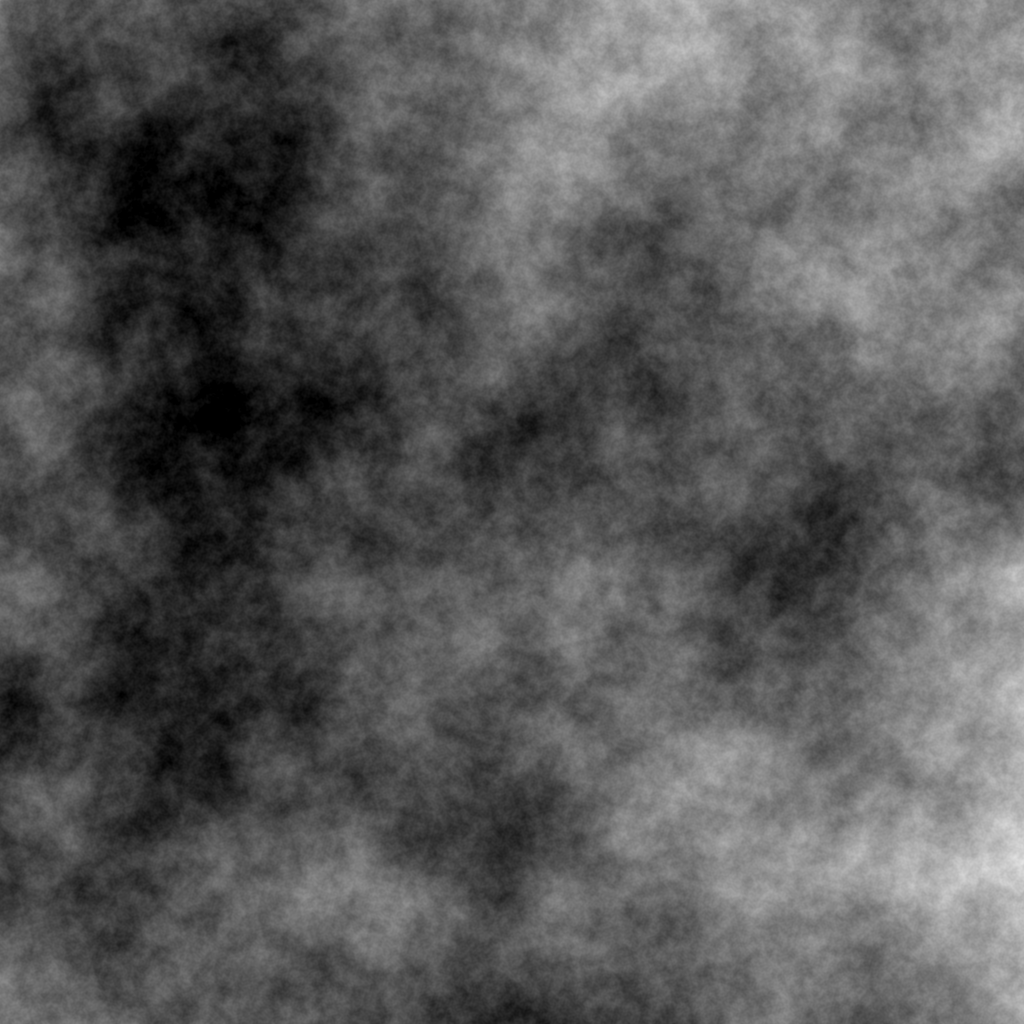
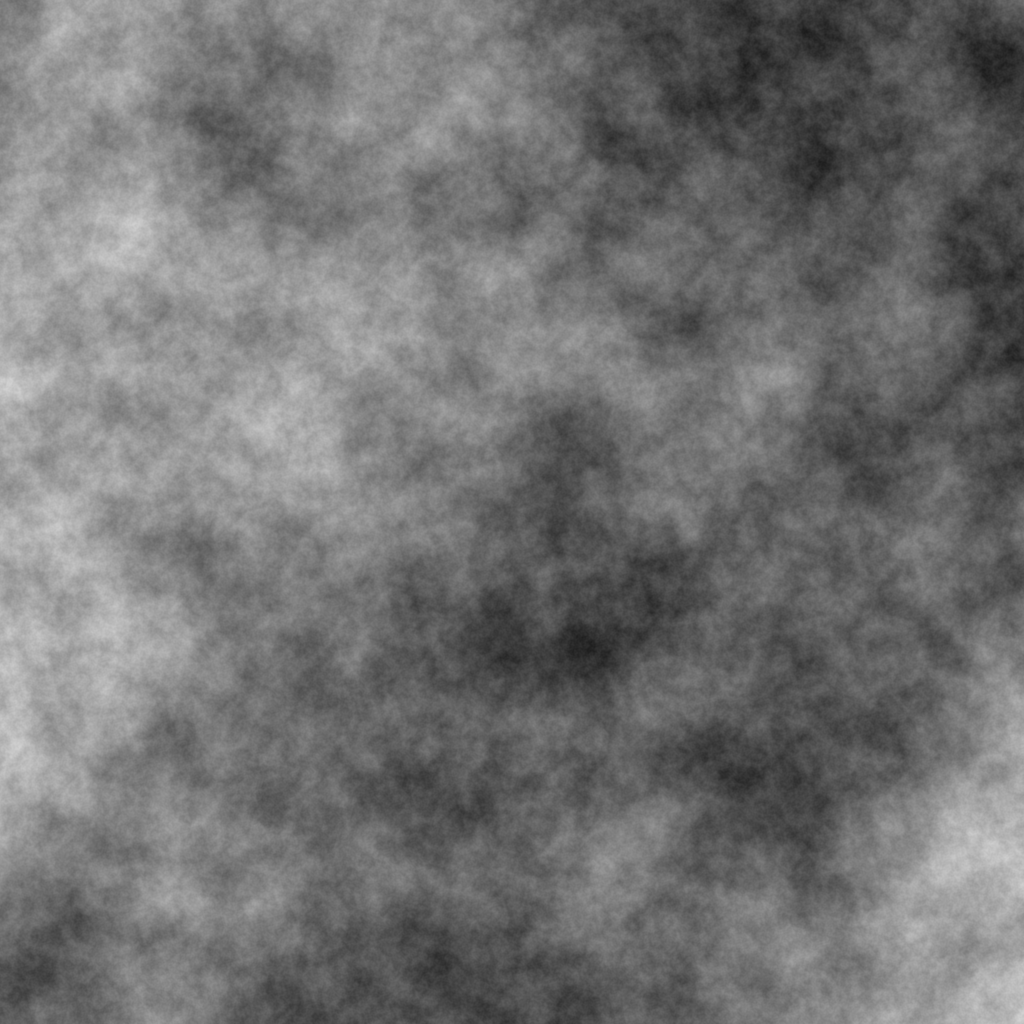
switch permutation generator to XORSHIFT

diff --git a/tests/LinuxMain.swift b/tests/LinuxMain.swift
@@ -37,20 +37,20 @@ for point:PoissonSampler.Point in poisson.generate(radius: 10, width: viewer_siz
 print(clock() - t0)
 try png_encode(path: "poisson.png", raw_data: pixbuf, properties: png_properties)
 
-let S:fBm<Simplex2D> = fBm<Simplex2D>(amplitude: 1, frequency: 0.00083429273, octaves: 10)
+let S:fBm<Simplex2D> = fBm<Simplex2D>(amplitude: 0.5*127.5, frequency: 0.001, octaves: 10)
 t0 = clock()
 pixbuf = S.sample_area_saturated_to_u8(width: viewer_size, height: viewer_size, offset: 127.5)
 print(clock() - t0)
 try png_encode(path: "simplex.png", raw_data: pixbuf, properties: png_properties)
 
 
-let SS:fBm<SuperSimplex2D> = fBm<SuperSimplex2D>(amplitude: 1, frequency: 0.00083429273, octaves: 10)
+let SS:fBm<SuperSimplex2D> = fBm<SuperSimplex2D>(amplitude: 0.5*127.5, frequency: 0.001, octaves: 10)
 t0 = clock()
 pixbuf = SS.sample_area_saturated_to_u8(width: viewer_size, height: viewer_size, offset: 127.5)
 print(clock() - t0)
 try png_encode(path: "super_simplex.png", raw_data: pixbuf, properties: png_properties)
 
-let SS3D:fBm<SuperSimplex3D> = fBm<SuperSimplex3D>(amplitude: 1, frequency: 0.00083429273, octaves: 10)
+let SS3D:fBm<SuperSimplex3D> = fBm<SuperSimplex3D>(amplitude: 0.5*127.5, frequency: 0.001, octaves: 10)
 t0 = clock()
 pixbuf = SS3D.sample_area_saturated_to_u8(width: viewer_size, height: viewer_size, offset: 127.5)
 print(clock() - t0)

diff --git a/sources/noise/noise.swift b/sources/noise/noise.swift
@@ -67,24 +67,23 @@ extension HashedNoise
     func table(seed:Int) -> ([Int], [Int])
     {
         let range:Int = Self.n_hashes
-        var seed = seed
-        var perm1024:[Int] = [Int](repeating: 0, count: 1024),
-            hashes:[Int]   = [Int](repeating: 0, count: 1024)
-        var source:[Int]   = Array(0 ..< 1024)
-        for i in stride(from: 1023, to: 0, by: -1)
+        var perm1024:[Int] = [Int](0 ..< 1024),
+            state128:(UInt32, UInt32, UInt32, UInt32) = (1, 0, 0, UInt32(extendingOrTruncating: seed))
+        for i in 0 ..< 1024 - 1
         {
-            seed = seed &* 6364136223846793005 &+ 1442695040888963407
-            var r:Int = (seed + 31) % (i + 1)
-            if r < 0
-            {
-                r += i + 1
-            }
-            perm1024[i] = source[r]
-            hashes[i]   = perm1024[i] % range
-            source[r]   = source[i]
+            var t:UInt32 = state128.3
+            t ^= t &<< 11
+            t ^= t &>> 8
+            state128.3 = state128.2
+            state128.2 = state128.1
+            state128.1 = state128.0
+            t ^= state128.0
+            t ^= state128.0 &>> 19
+            state128.0 = t
+            perm1024.swapAt(i, Int(t) & 1023)
         }
 
-        return (perm1024, hashes)
+        return (perm1024, perm1024.map{ $0 % range })
     }
 }
 

diff --git a/sources/noise/supersimplex.swift b/sources/noise/supersimplex.swift
@@ -112,7 +112,7 @@ struct SuperSimplex2D:Hashed2DGradientNoise
     public
     init(amplitude:Double, frequency:Double, seed:Int = 0)
     {
-        self.amplitude = 1275 * amplitude
+        self.amplitude = 18 * amplitude
         self.frequency = frequency
         (self.perm1024, self.hashes) = SuperSimplex2D.table(seed: seed)
     }
@@ -366,7 +366,7 @@ struct SuperSimplex3D:Hashed3DGradientNoise
     public
     init(amplitude:Double, frequency:Double, seed:Int = 0)
     {
-        self.amplitude = 700 * amplitude
+        self.amplitude = 9 * amplitude
         self.frequency = frequency
         (self.perm1024, self.hashes) = SuperSimplex3D.table(seed: seed)
     }

diff --git a/sources/noise/opensimplex.swift b/sources/noise/opensimplex.swift
@@ -15,13 +15,13 @@ struct Simplex2D:Hashed2DGradientNoise
         hashes:[Int]
 
     private
-    let amplitude:Double,
+    let amplitude:Double, // this is not necissaryly the same amplitude passed into the initializer
         frequency:Double
 
     public
     init(amplitude:Double, frequency:Double, seed:Int = 0)
     {
-        self.amplitude = 7 * amplitude
+        self.amplitude = 0.096 * amplitude
         self.frequency = frequency
         (self.perm1024, self.hashes) = Simplex2D.table(seed: seed)
     }
